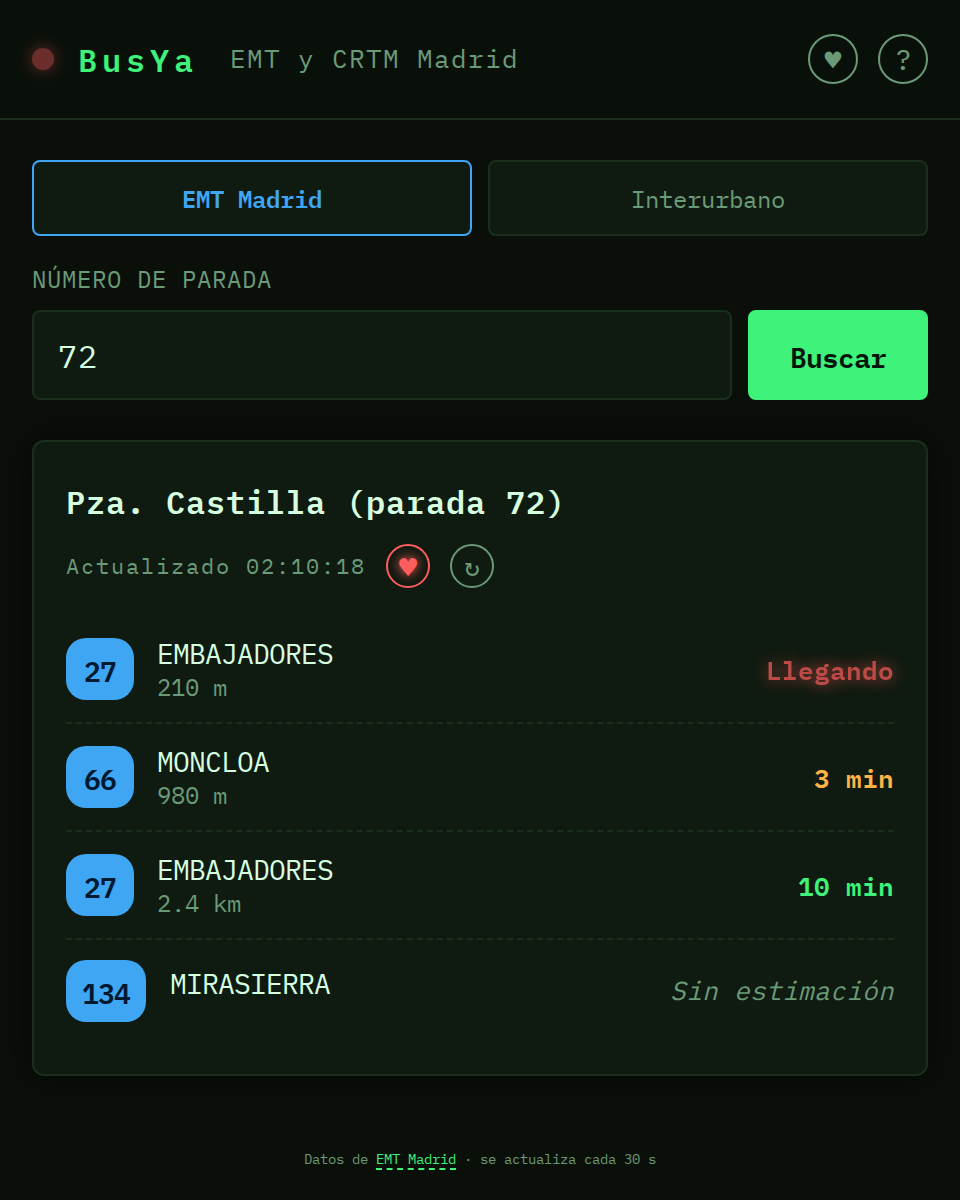
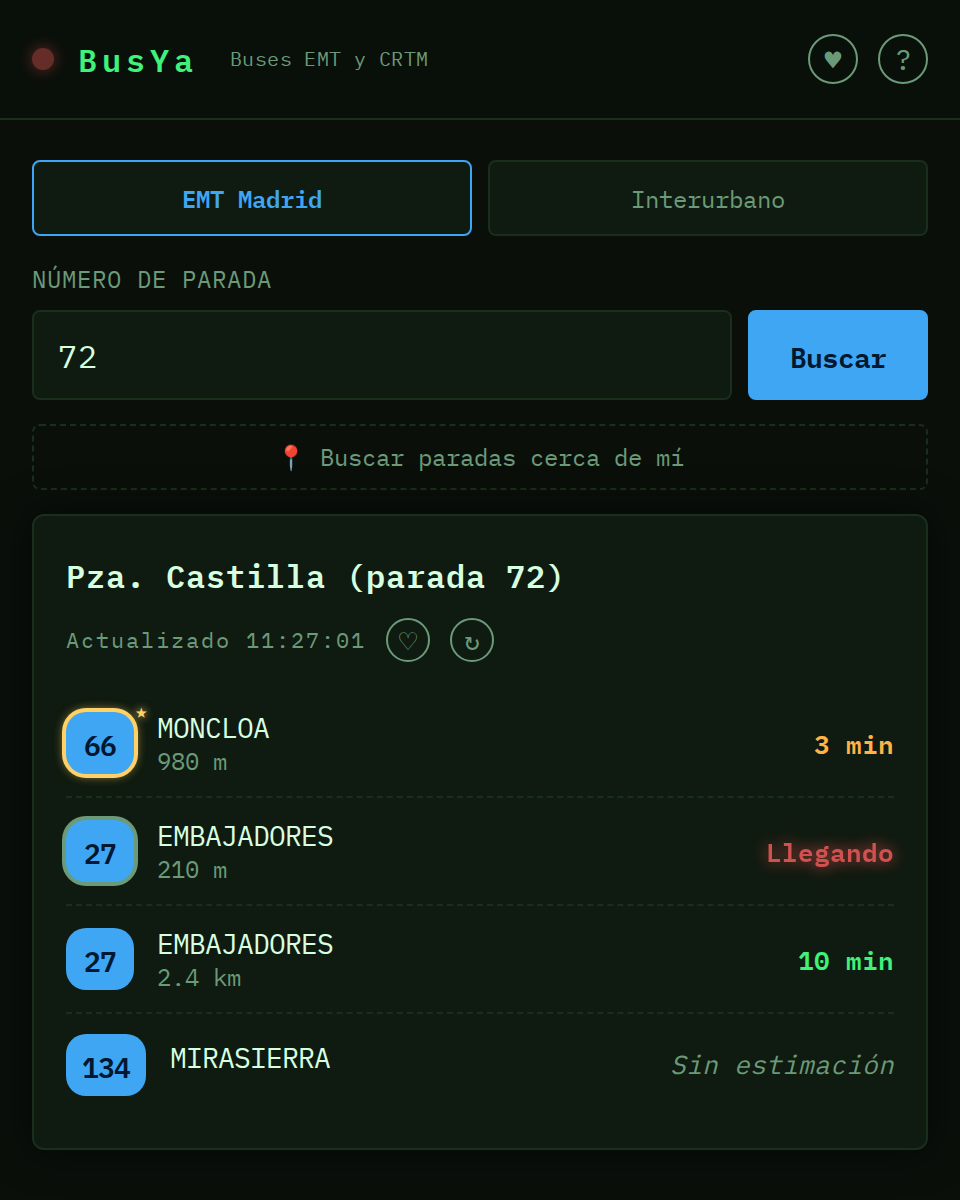
docs: actualizar la captura del README con las novedades recientes
Muestra el subtítulo nuevo, el botón de paradas cercanas y una línea
marcada como favorita (anillo dorado) — la anterior era de antes de
todo eso.

diff --git a/README.md b/README.md
@@ -15,7 +15,7 @@ Segundo proyecto de una serie de apps con APIs públicas para portfolio, junto a
 tracker de vuelos vía OpenSky se descartó por restricciones de la API antes de llegar a nada
 publicable).
 
-![Captura de BusYa: buscador de parada con selector EMT/Interurbano y tiempos de paso de la EMT en Pza. Castilla](screenshot.png)
+![Captura de BusYa: tiempos de paso de la EMT en Pza. Castilla, con la línea 66 marcada como favorita y el botón de paradas cercanas](screenshot.png)
 
 ## Stack
 
